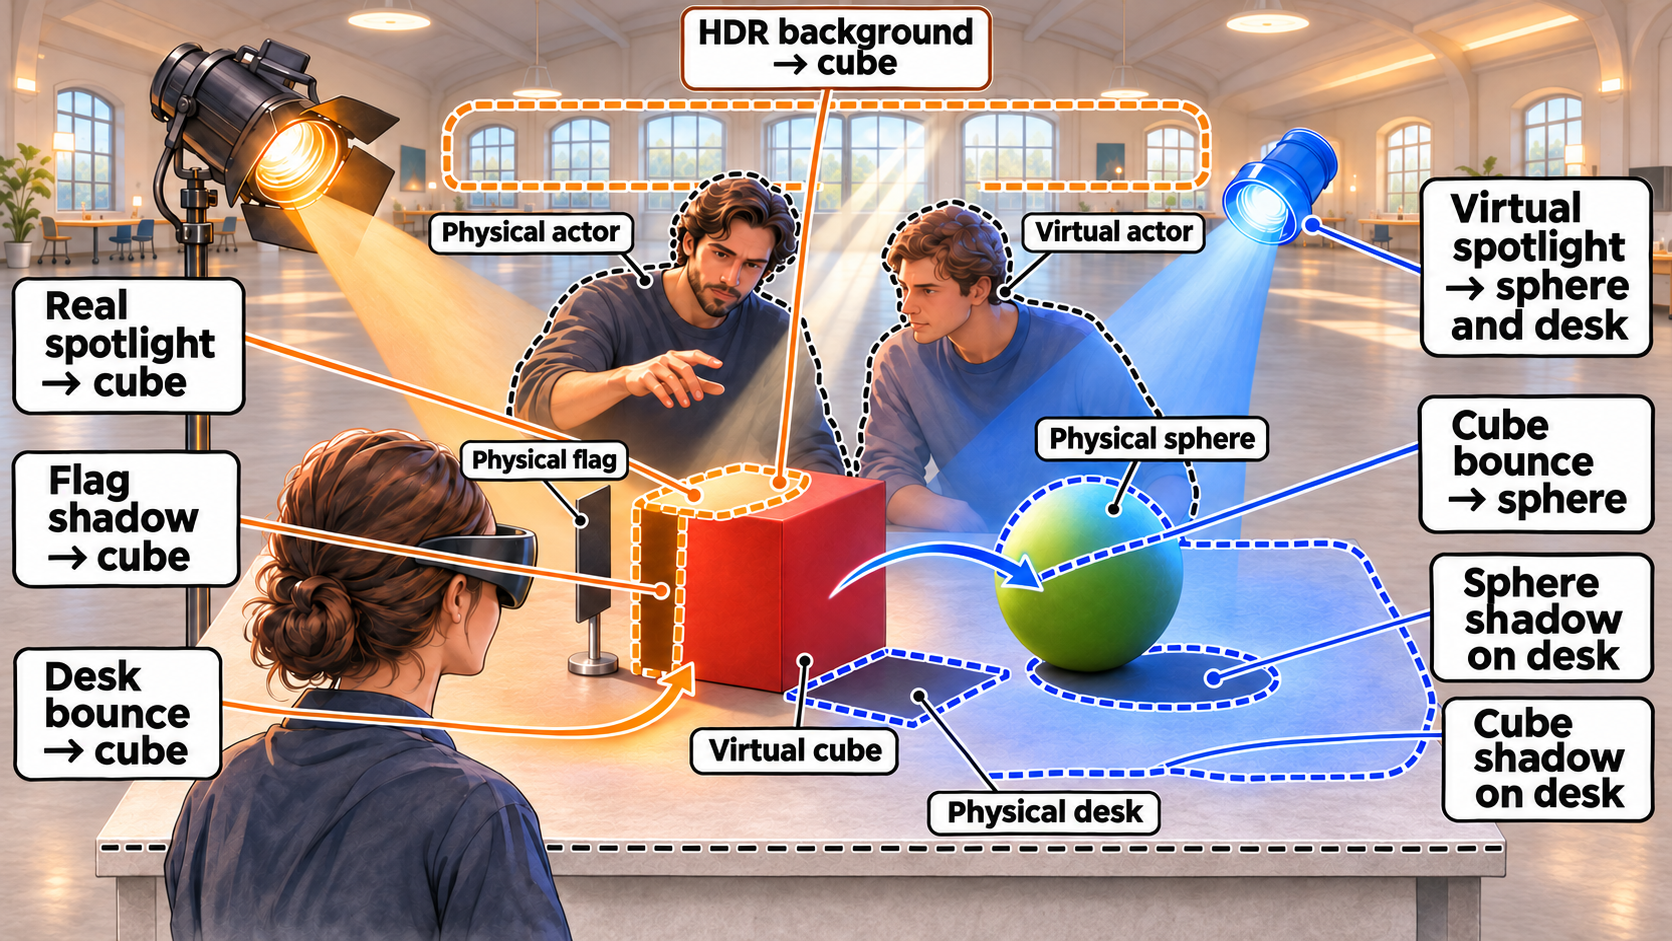
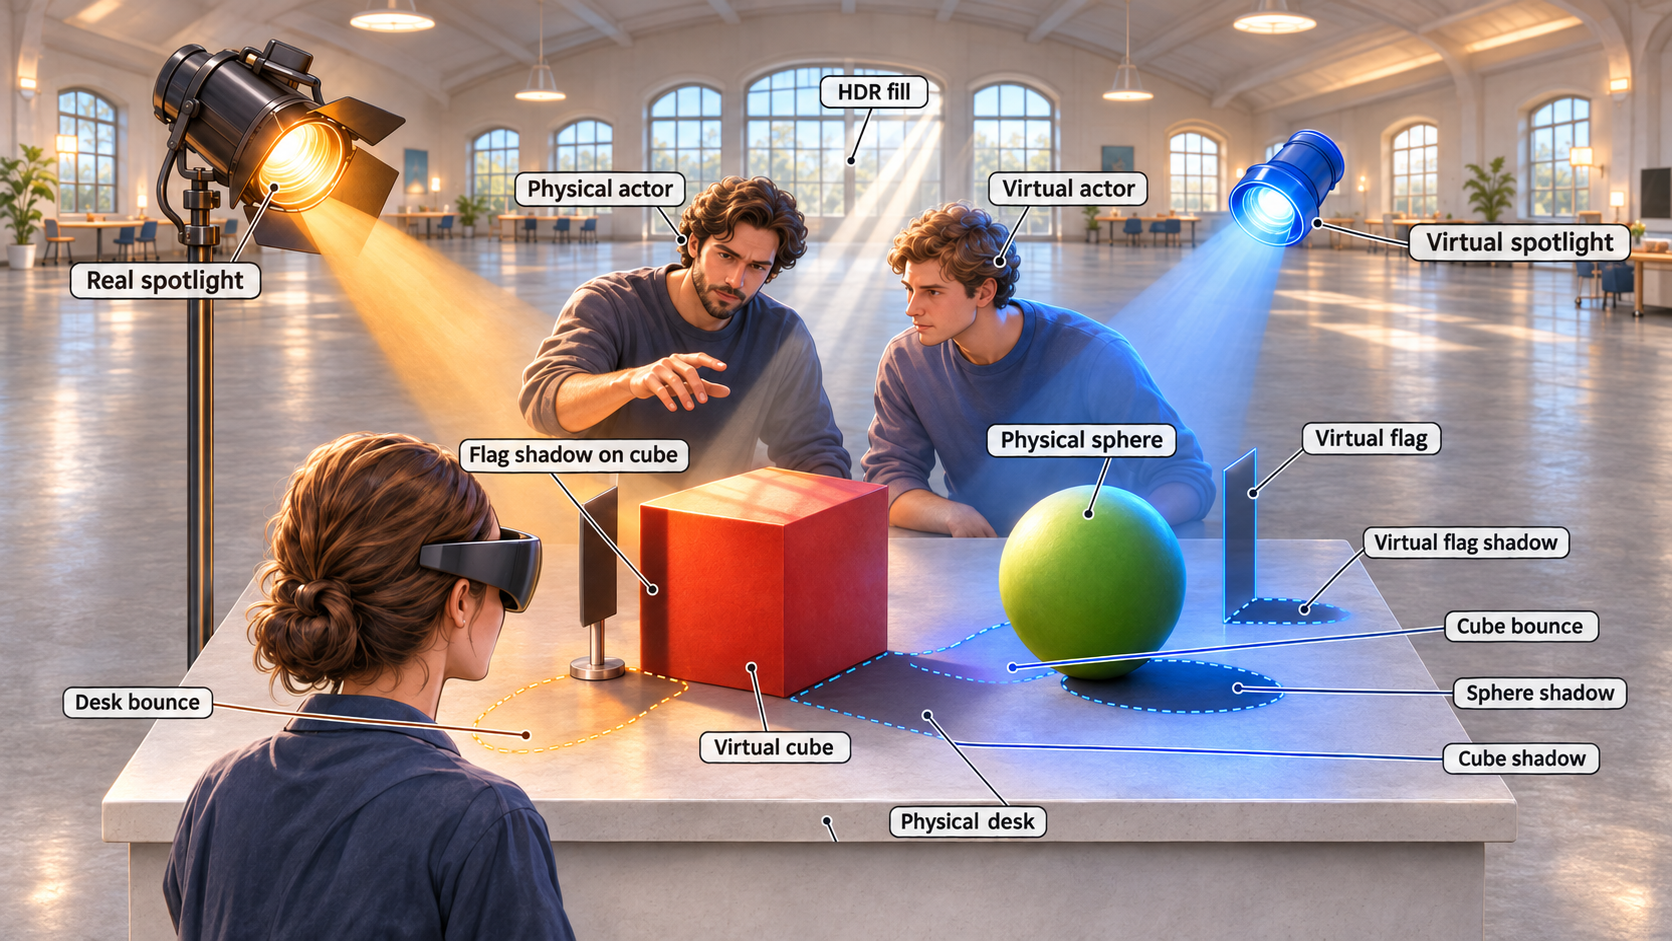
Use compact labels and fine outlines in lighting figure

diff --git a/scripts/presentation-v3.js b/scripts/presentation-v3.js
@@ -141,10 +141,10 @@
   function figure(image,title){return image?`<img src="${E(image)}" alt="${E(title)}" loading="eager">`:'';}
   function lightingScene(image) {
     return `<figure class="v4-light-figure">
-      ${figure(image,'One mixed set with a physical actor, a virtual actor, a red virtual cube, a green physical sphere and a physical desk. Distant HDR light and a nearby real spotlight light the cube. A physical flag shadows the cube and the desk bounces light onto it. A floating virtual spotlight lights the sphere and desk in the headset video. The sphere and cube cast separate shadows on the desk, and the cube bounces light onto the sphere.')}
+      ${figure(image,'One mixed set with a physical actor, a virtual actor, a red virtual cube, a green physical sphere and a physical desk. Distant HDR light and a nearby real spotlight light the cube. A physical flag shadows the cube and the desk bounces light onto it. A floating virtual spotlight lights the sphere and desk in the headset video. The sphere, cube and virtual flag cast shadows on the desk, and the cube bounces light onto the sphere.')}
       <figcaption class="v4-light-key">
         <div><b>Physical set → virtual cube</b><span>HDR background light · Nearby spotlight · Flag shadow · Desk bounce</span></div>
-        <div><b>Virtual spotlight → headset video</b><span>Light on sphere and desk · Sphere shadow · Cube shadow · Cube bounce onto sphere</span></div>
+        <div><b>Virtual spotlight → headset video</b><span>Light on sphere and desk · Shadows from sphere, cube and flag · Cube bounce onto sphere</span></div>
       </figcaption>
     </figure>`;
   }
